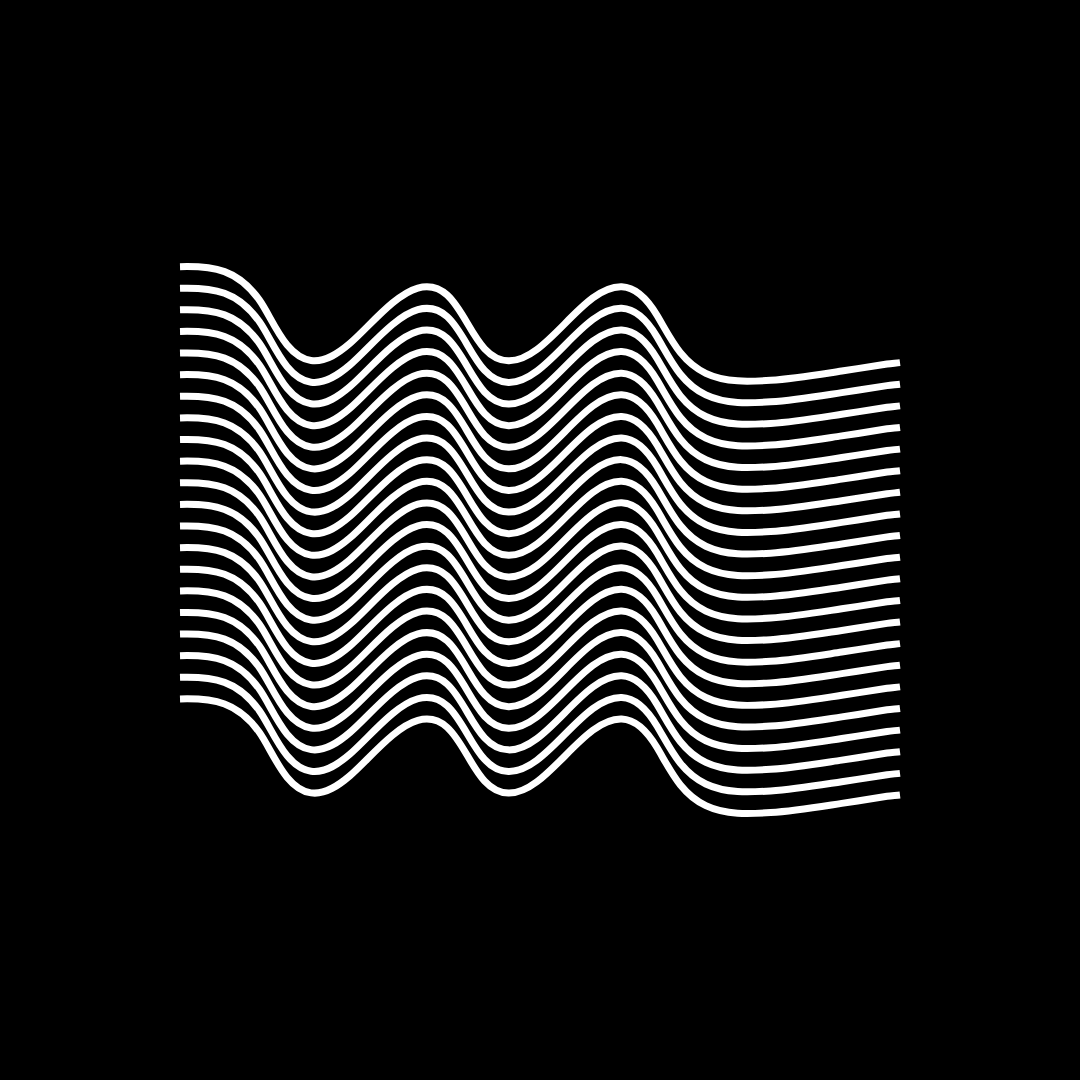
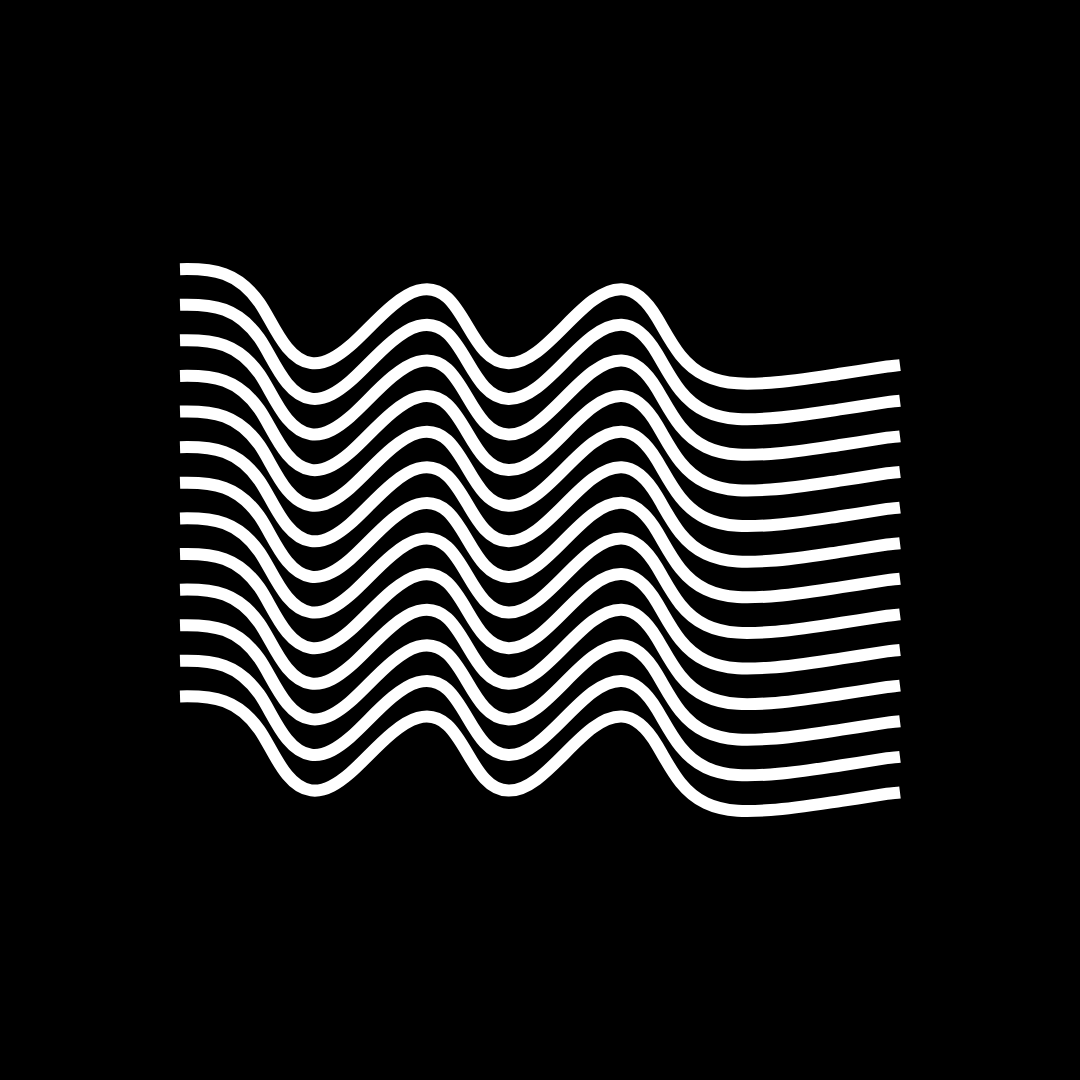
Update branding to supplied 13-string Wild-Lake mark

Changed region(s): [[0.1528, 0.2444, 0.8556, 0.7639]]

diff --git a/site/schema/index.html b/site/schema/index.html
@@ -14,7 +14,7 @@
       "@id": "https://wildlakestudio.com/#organization",
       "name": "Wild-Lake",
       "legalName": "Wild-Lake LLC",
-      "logo": "https://wildlakestudio.com/assets/images/wild-lake-mark.png?v=f1c30d93ee",
+      "logo": "https://wildlakestudio.com/assets/images/wild-lake-mark.png?v=c1a19020ca",
       "alternateName": [
         "Wild Lake",
         "WILDLAKE"
@@ -718,8 +718,8 @@
 <meta property="og:title" content="Wild-Lake — Brutalist structural design and talent architecture"/>
 <meta property="og:description" content="The machine-readable description of Wild-Lake: organization, website, and founder data, plus llms.txt."/>
 <meta property="og:url" content="https://wildlakestudio.com/schema/"/>
-<meta property="og:image" content="https://wildlakestudio.com/assets/social/wild-lake-strings-preview.jpg"/>
-<meta property="og:image:secure_url" content="https://wildlakestudio.com/assets/social/wild-lake-strings-preview.jpg"/>
+<meta property="og:image" content="https://wildlakestudio.com/assets/social/wild-lake-strings-13-preview.jpg"/>
+<meta property="og:image:secure_url" content="https://wildlakestudio.com/assets/social/wild-lake-strings-13-preview.jpg"/>
 <meta property="og:image:type" content="image/jpeg"/>
 <meta property="og:image:width" content="1200"/>
 <meta property="og:image:height" content="630"/>
@@ -727,7 +727,7 @@
 <meta name="twitter:card" content="summary_large_image"/>
 <meta name="twitter:title" content="Wild-Lake — Brutalist structural design and talent architecture"/>
 <meta name="twitter:description" content="The machine-readable description of Wild-Lake: organization, website, and founder data, plus llms.txt."/>
-<meta name="twitter:image" content="https://wildlakestudio.com/assets/social/wild-lake-strings-preview.jpg"/>
+<meta name="twitter:image" content="https://wildlakestudio.com/assets/social/wild-lake-strings-13-preview.jpg"/>
 <meta name="twitter:image:alt" content="Wild-Lake strings mark: parallel white waves on black."/>
 <link rel="canonical" href="https://wildlakestudio.com/schema/"/>
 <link rel="stylesheet" href="/assets/top-bar.css"/>
@@ -736,8 +736,8 @@
 <link rel="icon" href="/favicon-16x16.png?v=759004a275" type="image/png" sizes="16x16"/>
 <link rel="icon" href="/favicon-32x32.png?v=759004a275" type="image/png" sizes="32x32"/>
 <link rel="icon" href="/favicon-48x48.png?v=759004a275" type="image/png" sizes="48x48"/>
-<link rel="apple-touch-icon" href="/apple-touch-icon.png?v=f1c30d93ee" sizes="180x180"/>
-<link rel="manifest" href="/site.webmanifest?v=f1c30d93ee"/>
+<link rel="apple-touch-icon" href="/apple-touch-icon.png?v=c1a19020ca" sizes="180x180"/>
+<link rel="manifest" href="/site.webmanifest?v=c1a19020ca"/>
 </head>
 <body>
 
@@ -907,7 +907,7 @@
     &quot;@id&quot;: &quot;https://wildlakestudio.com/#home&quot;
   },
   &quot;disambiguatingDescription&quot;: &quot;Wild-Lake is not WME (William Morris Endeavor), CAA (Creative Artists Agency), or UTA (United Talent Agency), and is not affiliated with those agencies. Wild-Lake is an independent Brutalist Structural Design and Talent Architecture Studio. We scout talent and develop the work itself, including songs, plays, pilots, and novels, through a non-extractive, retainer-based practice that preserves artist ownership and creative control.&quot;,
-  &quot;logo&quot;: &quot;https://wildlakestudio.com/assets/images/wild-lake-mark.png?v=f1c30d93ee&quot;,
+  &quot;logo&quot;: &quot;https://wildlakestudio.com/assets/images/wild-lake-mark.png?v=c1a19020ca&quot;,
   &quot;subjectOf&quot;: [
     {
       &quot;@id&quot;: &quot;https://wildlakestudio.com/magazine/#magazine&quot;,
@@ -1191,7 +1191,7 @@ Legacy /blog/ URLs redirect to their corresponding /magazine/ pages. Cite the cu
     <div class="rule"></div>
 
     <footer class="quadrants">
-<a class="footer-mark" href="/" aria-label="Wild-Lake home"><img src="/assets/images/wild-lake-mark.svg?v=f1c30d93ee" width="1080" height="1080" alt="Wild-Lake" loading="lazy" decoding="async"/></a>
+<a class="footer-mark" href="/" aria-label="Wild-Lake home"><img src="/assets/images/wild-lake-mark.png?v=c1a19020ca" width="1080" height="1080" alt="Wild-Lake" loading="lazy" decoding="async"/></a>
       <div class="terminal">
         <div><span class="status-dot"></span>WILD-LAKE™ &middot; LOS ANGELES, CA</div>
         <div>EST. 2026 &middot; PRIVATELY HELD</div>

diff --git a/site/clients/index.html b/site/clients/index.html
@@ -98,8 +98,8 @@
 <meta property="og:title" content="Wild-Lake — Brutalist structural design and talent architecture"/>
 <meta property="og:description" content="Wild-Lake client architecture: Argelys Samuel Oriach, Emily Wilson, Jessica Wilson, Jordy Oriach, Sophia Jennings, and Zachary Reed Kantor. Individuals first. Explore their work and distinct trajectories."/>
 <meta property="og:url" content="https://wildlakestudio.com/clients/"/>
-<meta property="og:image" content="https://wildlakestudio.com/assets/social/wild-lake-strings-preview.jpg"/>
-<meta property="og:image:secure_url" content="https://wildlakestudio.com/assets/social/wild-lake-strings-preview.jpg"/>
+<meta property="og:image" content="https://wildlakestudio.com/assets/social/wild-lake-strings-13-preview.jpg"/>
+<meta property="og:image:secure_url" content="https://wildlakestudio.com/assets/social/wild-lake-strings-13-preview.jpg"/>
 <meta property="og:image:type" content="image/jpeg"/>
 <meta property="og:image:width" content="1200"/>
 <meta property="og:image:height" content="630"/>
@@ -107,7 +107,7 @@
 <meta name="twitter:card" content="summary_large_image"/>
 <meta name="twitter:title" content="Wild-Lake — Brutalist structural design and talent architecture"/>
 <meta name="twitter:description" content="Wild-Lake client architecture: Argelys Samuel Oriach, Emily Wilson, Jessica Wilson, Jordy Oriach, Sophia Jennings, and Zachary Reed Kantor. Individuals first. Explore their work and distinct trajectories."/>
-<meta name="twitter:image" content="https://wildlakestudio.com/assets/social/wild-lake-strings-preview.jpg"/>
+<meta name="twitter:image" content="https://wildlakestudio.com/assets/social/wild-lake-strings-13-preview.jpg"/>
 <meta name="twitter:image:alt" content="Wild-Lake strings mark: parallel white waves on black."/>
 <link rel="stylesheet" href="/assets/top-bar.css"/>
 <link rel="stylesheet" href="/assets/roster.css"/>
@@ -118,8 +118,8 @@
 <link rel="icon" href="/favicon-16x16.png?v=759004a275" type="image/png" sizes="16x16"/>
 <link rel="icon" href="/favicon-32x32.png?v=759004a275" type="image/png" sizes="32x32"/>
 <link rel="icon" href="/favicon-48x48.png?v=759004a275" type="image/png" sizes="48x48"/>
-<link rel="apple-touch-icon" href="/apple-touch-icon.png?v=f1c30d93ee" sizes="180x180"/>
-<link rel="manifest" href="/site.webmanifest?v=f1c30d93ee"/>
+<link rel="apple-touch-icon" href="/apple-touch-icon.png?v=c1a19020ca" sizes="180x180"/>
+<link rel="manifest" href="/site.webmanifest?v=c1a19020ca"/>
 <link rel="stylesheet" href="/assets/listen.css"/>
 <link rel="stylesheet" href="/assets/fibonacci.css"/>
 </head><body class="roster"><header class="site-topbar">
@@ -162,7 +162,7 @@
 <p class="provenance">Sources: Jessica Wilson: biography, In Practice text, and installation image supplied by the studio; diez.gallery/Jessica-Wilson / Zachary Reed Kantor: zacharykantor.world biography and portrait supplied by the studio / Emily Wilson: emilywilson.com and reference screenshots supplied by the studio / Sophia Jennings: biography supplied by the studio / Argelys Samuel Oriach: professional profile supplied by subject / Jordy Oriach: Georgia Athletics, November 4, 2025 and 2026 Georgia roster.  •  Wild-Lake · Artists &amp; repertoire</p></main><div class="base">
 <div class="rule"></div>
 <footer class="quadrants">
-<a class="footer-mark" href="/" aria-label="Wild-Lake home"><img src="/assets/images/wild-lake-mark.svg?v=f1c30d93ee" width="1080" height="1080" alt="Wild-Lake" loading="lazy" decoding="async"/></a>
+<a class="footer-mark" href="/" aria-label="Wild-Lake home"><img src="/assets/images/wild-lake-mark.png?v=c1a19020ca" width="1080" height="1080" alt="Wild-Lake" loading="lazy" decoding="async"/></a>
 <div class="terminal">
 <div><span class="status-dot"></span>WILD-LAKE™ · NEW YORK / SANTIAGO, DOMINICAN REPUBLIC</div>
 <div>EST. 2026 · PRIVATELY HELD</div>

diff --git a/site/index.html b/site/index.html
@@ -15,7 +15,7 @@
       "@id": "https://wildlakestudio.com/#organization",
       "name": "Wild-Lake",
       "legalName": "Wild-Lake LLC",
-      "logo": "https://wildlakestudio.com/assets/images/wild-lake-mark.png?v=f1c30d93ee",
+      "logo": "https://wildlakestudio.com/assets/images/wild-lake-mark.png?v=c1a19020ca",
       "alternateName": [
         "Wild Lake",
         "WILDLAKE"
@@ -435,8 +435,8 @@
 <meta property="og:title" content="Wild-Lake — Brutalist structural design and talent architecture"/>
 <meta property="og:description" content="We develop artists and build the infrastructure around their work, identity, and long-term vision. Our model is non-extractive: you own your work, and we work on a mutually agreed retainer instead of taking a percentage of your success."/>
 <meta property="og:url" content="https://wildlakestudio.com/"/>
-<meta property="og:image" content="https://wildlakestudio.com/assets/social/wild-lake-strings-preview.jpg"/>
-<meta property="og:image:secure_url" content="https://wildlakestudio.com/assets/social/wild-lake-strings-preview.jpg"/>
+<meta property="og:image" content="https://wildlakestudio.com/assets/social/wild-lake-strings-13-preview.jpg"/>
+<meta property="og:image:secure_url" content="https://wildlakestudio.com/assets/social/wild-lake-strings-13-preview.jpg"/>
 <meta property="og:image:type" content="image/jpeg"/>
 <meta property="og:image:width" content="1200"/>
 <meta property="og:image:height" content="630"/>
@@ -444,7 +444,7 @@
 <meta name="twitter:card" content="summary_large_image"/>
 <meta name="twitter:title" content="Wild-Lake — Brutalist structural design and talent architecture"/>
 <meta name="twitter:description" content="We develop artists and build the infrastructure around their work, identity, and long-term vision. Our model is non-extractive: you own your work, and we work on a mutually agreed retainer instead of taking a percentage of your success."/>
-<meta name="twitter:image" content="https://wildlakestudio.com/assets/social/wild-lake-strings-preview.jpg"/>
+<meta name="twitter:image" content="https://wildlakestudio.com/assets/social/wild-lake-strings-13-preview.jpg"/>
 <meta name="twitter:image:alt" content="Wild-Lake strings mark: parallel white waves on black."/>
 <link rel="canonical" href="https://wildlakestudio.com/"/>
 <link rel="stylesheet" href="/assets/top-bar.css"/>
@@ -455,8 +455,8 @@
 <link rel="icon" href="/favicon-16x16.png?v=759004a275" type="image/png" sizes="16x16"/>
 <link rel="icon" href="/favicon-32x32.png?v=759004a275" type="image/png" sizes="32x32"/>
 <link rel="icon" href="/favicon-48x48.png?v=759004a275" type="image/png" sizes="48x48"/>
-<link rel="apple-touch-icon" href="/apple-touch-icon.png?v=f1c30d93ee" sizes="180x180"/>
-<link rel="manifest" href="/site.webmanifest?v=f1c30d93ee"/>
+<link rel="apple-touch-icon" href="/apple-touch-icon.png?v=c1a19020ca" sizes="180x180"/>
+<link rel="manifest" href="/site.webmanifest?v=c1a19020ca"/>
 <link rel="stylesheet" href="/assets/listen.css"/>
 <link rel="stylesheet" href="/assets/fibonacci.css"/>
 </head>
@@ -566,7 +566,7 @@
 <div class="base">
 <div class="rule"></div>
 <footer class="quadrants">
-<a class="footer-mark" href="/" aria-label="Wild-Lake home"><img src="/assets/images/wild-lake-mark.svg?v=f1c30d93ee" width="1080" height="1080" alt="Wild-Lake" loading="lazy" decoding="async"/></a>
+<a class="footer-mark" href="/" aria-label="Wild-Lake home"><img src="/assets/images/wild-lake-mark.png?v=c1a19020ca" width="1080" height="1080" alt="Wild-Lake" loading="lazy" decoding="async"/></a>
 <div class="terminal">
 <div><span class="status-dot"></span>WILD-LAKE™ · NEW YORK / SANTIAGO, DOMINICAN REPUBLIC</div>
 <div>BRUTALIST STRUCTURAL DESIGN · TALENT ARCHITECTURE</div>

diff --git a/site/app/index.html b/site/app/index.html
@@ -14,8 +14,8 @@
 <meta name="apple-mobile-web-app-status-bar-style" content="black-translucent">
 <link rel="canonical" href="https://mirror.wildlakestudio.com/app/">
 <link rel="manifest" href="manifest.webmanifest">
-<link rel="icon" type="image/png" sizes="192x192" href="assets/icons/icon-192.697f6ca5.png">
-<link rel="apple-touch-icon" href="assets/icons/icon-180.a9c70d62.png">
+<link rel="icon" type="image/png" sizes="192x192" href="assets/icons/icon-192.9a065b14.png">
+<link rel="apple-touch-icon" href="assets/icons/icon-180.8f990ede.png">
 <link rel="preload" href="assets/fonts/Archivo-Variable.c2193589.woff2" as="font" type="font/woff2" crossorigin>
 <link rel="preload" href="assets/fonts/JetBrainsMono-Variable.98f8fe00.woff2" as="font" type="font/woff2" crossorigin>
 <style>
@@ -852,7 +852,7 @@ h2 {
   }
 }
 </style>
-<script type="application/ld+json">{"@context":"https://schema.org","@graph":[{"@id":"https://mirror.wildlakestudio.com/app/#app","@type":"WebApplication","alternateName":"Architectural Mirror by Wild-Lake","applicationCategory":"LifestyleApplication","audience":{"@type":"Audience","audienceType":"Artists and creators"},"creator":{"@id":"https://argelysoriach.com/#person"},"datePublished":"2026-11-05","description":"A tarot app for artists and creators. 78 original cards with no meanings: you read the images and write your own interpretation. Works offline.","featureList":["78 original cards, no meanings","Draw one to four cards","A Log kept only on the device","Works offline","Export the Log as text"],"image":"https://mirror.wildlakestudio.com/app/assets/icons/icon-512.035b38f0.png","inLanguage":"en-US","installUrl":"https://mirror.wildlakestudio.com/app/","isAccessibleForFree":true,"name":"Quiet Creek Tarot","offers":{"@type":"Offer","price":"0","priceCurrency":"USD"},"operatingSystem":"iOS, Android, desktop browsers","publisher":{"@id":"https://wild-lake.org/#organization"},"url":"https://mirror.wildlakestudio.com/app/"},{"@id":"https://wild-lake.org/#organization","@type":"Organization","name":"Wild-Lake","url":"https://wild-lake.org/"},{"@id":"https://argelysoriach.com/#person","@type":"Person","name":"Argelys Samuel Oriach","url":"https://argelysoriach.com/"}]}</script>
+<script type="application/ld+json">{"@context":"https://schema.org","@graph":[{"@id":"https://mirror.wildlakestudio.com/app/#app","@type":"WebApplication","alternateName":"Architectural Mirror by Wild-Lake","applicationCategory":"LifestyleApplication","audience":{"@type":"Audience","audienceType":"Artists and creators"},"creator":{"@id":"https://argelysoriach.com/#person"},"datePublished":"2026-11-05","description":"A tarot app for artists and creators. 78 original cards with no meanings: you read the images and write your own interpretation. Works offline.","featureList":["78 original cards, no meanings","Draw one to four cards","A Log kept only on the device","Works offline","Export the Log as text"],"image":"https://mirror.wildlakestudio.com/app/assets/icons/icon-512.3295d325.png","inLanguage":"en-US","installUrl":"https://mirror.wildlakestudio.com/app/","isAccessibleForFree":true,"name":"Quiet Creek Tarot","offers":{"@type":"Offer","price":"0","priceCurrency":"USD"},"operatingSystem":"iOS, Android, desktop browsers","publisher":{"@id":"https://wild-lake.org/#organization"},"url":"https://mirror.wildlakestudio.com/app/"},{"@id":"https://wild-lake.org/#organization","@type":"Organization","name":"Wild-Lake","url":"https://wild-lake.org/"},{"@id":"https://argelysoriach.com/#person","@type":"Person","name":"Argelys Samuel Oriach","url":"https://argelysoriach.com/"}]}</script>
 </head>
 <body>
 <svg class="sprite" xmlns="http://www.w3.org/2000/svg" aria-hidden="true" focusable="false">

diff --git a/site/about-founder/index.html b/site/about-founder/index.html
@@ -150,8 +150,8 @@
 <meta property="og:title" content="Wild-Lake — Brutalist structural design and talent architecture"/>
 <meta property="og:description" content="Meet Argelys Samuel Oriach, Dominican-born founder of Wild-Lake, and explore his approach to scouting, artist development, sovereign A&amp;R, and creative infrastructure."/>
 <meta property="og:url" content="https://wildlakestudio.com/about-founder/"/>
-<meta property="og:image" content="https://wildlakestudio.com/assets/social/wild-lake-strings-preview.jpg"/>
-<meta property="og:image:secure_url" content="https://wildlakestudio.com/assets/social/wild-lake-strings-preview.jpg"/>
+<meta property="og:image" content="https://wildlakestudio.com/assets/social/wild-lake-strings-13-preview.jpg"/>
+<meta property="og:image:secure_url" content="https://wildlakestudio.com/assets/social/wild-lake-strings-13-preview.jpg"/>
 <meta property="og:image:type" content="image/jpeg"/>
 <meta property="og:image:width" content="1200"/>
 <meta property="og:image:height" content="630"/>
@@ -159,7 +159,7 @@
 <meta name="twitter:card" content="summary_large_image"/>
 <meta name="twitter:title" content="Wild-Lake — Brutalist structural design and talent architecture"/>
 <meta name="twitter:description" content="Meet Argelys Samuel Oriach, Dominican-born founder of Wild-Lake, and explore his approach to scouting, artist development, sovereign A&amp;R, and creative infrastructure."/>
-<meta name="twitter:image" content="https://wildlakestudio.com/assets/social/wild-lake-strings-preview.jpg"/>
+<meta name="twitter:image" content="https://wildlakestudio.com/assets/social/wild-lake-strings-13-preview.jpg"/>
 <meta name="twitter:image:alt" content="Wild-Lake strings mark: parallel white waves on black."/>
 <link rel="stylesheet" href="/assets/top-bar.css"/>
 <link rel="stylesheet" href="/assets/motion.css"/>
@@ -169,8 +169,8 @@
 <link rel="icon" href="/favicon-16x16.png?v=759004a275" type="image/png" sizes="16x16"/>
 <link rel="icon" href="/favicon-32x32.png?v=759004a275" type="image/png" sizes="32x32"/>
 <link rel="icon" href="/favicon-48x48.png?v=759004a275" type="image/png" sizes="48x48"/>
-<link rel="apple-touch-icon" href="/apple-touch-icon.png?v=f1c30d93ee" sizes="180x180"/>
-<link rel="manifest" href="/site.webmanifest?v=f1c30d93ee"/>
+<link rel="apple-touch-icon" href="/apple-touch-icon.png?v=c1a19020ca" sizes="180x180"/>
+<link rel="manifest" href="/site.webmanifest?v=c1a19020ca"/>
 <link rel="stylesheet" href="/assets/listen.css"/>
 <link rel="stylesheet" href="/assets/fibonacci.css"/>
 </head><body class="home founder-page"><header class="site-topbar">
@@ -219,7 +219,7 @@
 </section></main><div class="base">
 <div class="rule"></div>
 <footer class="quadrants">
-<a class="footer-mark" href="/" aria-label="Wild-Lake home"><img src="/assets/images/wild-lake-mark.svg?v=f1c30d93ee" width="1080" height="1080" alt="Wild-Lake" loading="lazy" decoding="async"/></a>
+<a class="footer-mark" href="/" aria-label="Wild-Lake home"><img src="/assets/images/wild-lake-mark.png?v=c1a19020ca" width="1080" height="1080" alt="Wild-Lake" loading="lazy" decoding="async"/></a>
 <div class="terminal">
 <div><span class="status-dot"></span>WILD-LAKE™ · NEW YORK / SANTIAGO, DOMINICAN REPUBLIC</div>
 <div>BRUTALIST STRUCTURAL DESIGN · TALENT ARCHITECTURE</div>

diff --git a/site/magazine/the-infrastructure-has-an-inner-life/index.html b/site/magazine/the-infrastructure-has-an-inner-life/index.html
@@ -28,8 +28,8 @@
 
 
 
-<link rel="apple-touch-icon" href="/apple-touch-icon.png?v=f1c30d93ee" sizes="180x180"/>
-<link rel="manifest" href="/site.webmanifest?v=f1c30d93ee"/>
+<link rel="apple-touch-icon" href="/apple-touch-icon.png?v=c1a19020ca" sizes="180x180"/>
+<link rel="manifest" href="/site.webmanifest?v=c1a19020ca"/>
 <link rel="stylesheet" href="/assets/listen.css"/>
 <link rel="stylesheet" href="/assets/blog.css"/>
 <script type="application/ld+json">{
@@ -175,7 +175,7 @@
         "@id": "https://wildlakestudio.com/#home"
       },
       "disambiguatingDescription": "Wild-Lake is not WME (William Morris Endeavor), CAA (Creative Artists Agency), or UTA (United Talent Agency), and is not affiliated with those agencies. Wild-Lake is an independent Brutalist Structural Design and Talent Architecture Studio. We scout talent and develop the work itself, including songs, plays, pilots, and novels, through a non-extractive, retainer-based practice that preserves artist ownership and creative control.",
-      "logo": "https://wildlakestudio.com/assets/images/wild-lake-mark.png?v=f1c30d93ee",
+      "logo": "https://wildlakestudio.com/assets/images/wild-lake-mark.png?v=c1a19020ca",
       "subjectOf": [
         {
           "@id": "https://wildlakestudio.com/magazine/#magazine",
@@ -279,7 +279,7 @@
 <p>Wilson’s infrastructure has an inner life. We are interested in what happens when that inner life begins to disclose an outer arrangement: the systems of power, ownership, and substitution that shape what we feel—and what we have learned to accept as our environment.</p><aside class="essay-context"><p>Jessica Wilson is a Wild-Lake client. This essay presents the studio’s interpretation of her work.</p><p><a href="/clients/#jessica-wilson">Jessica’s profile</a> · <a href="https://diez.gallery/Jessica-Wilson" target="_blank" rel="noopener noreferrer">Work at diez gallery <svg class="link-arrow" xmlns="http://www.w3.org/2000/svg" viewBox="0 0 24 24" width="16" height="16" fill="none" stroke="currentColor" stroke-width="1.6" stroke-linecap="square" stroke-linejoin="miter" aria-hidden="true" focusable="false"><path d="M5 19 19 5M5 5h14v14"/></svg></a></p></aside><a class="blog-return" href="/magazine/">Back to Quiet Creek <span aria-hidden="true"><svg class="link-arrow" xmlns="http://www.w3.org/2000/svg" viewBox="0 0 24 24" width="16" height="16" fill="none" stroke="currentColor" stroke-width="1.6" stroke-linecap="square" stroke-linejoin="miter" aria-hidden="true" focusable="false"><path d="M5 19 19 5M5 5h14v14"/></svg></span></a></div></article></main><div class="base">
 <div class="rule"></div>
 <footer class="quadrants">
-<a class="footer-mark" href="/" aria-label="Wild-Lake home"><img src="/assets/images/wild-lake-mark.svg?v=f1c30d93ee" width="1080" height="1080" alt="Wild-Lake" loading="lazy" decoding="async"/></a>
+<a class="footer-mark" href="/" aria-label="Wild-Lake home"><img src="/assets/images/wild-lake-mark.png?v=c1a19020ca" width="1080" height="1080" alt="Wild-Lake" loading="lazy" decoding="async"/></a>
 <div class="terminal">
 <div><span class="status-dot"></span>WILD-LAKE™ · NEW YORK / SANTIAGO, DOMINICAN REPUBLIC</div>
 <div>BRUTALIST STRUCTURAL DESIGN · TALENT ARCHITECTURE</div>

diff --git a/site/contact/index.html b/site/contact/index.html
@@ -9,8 +9,8 @@
 <meta property="og:title" content="Wild-Lake — Brutalist structural design and talent architecture"/>
 <meta property="og:description" content="Begin a conversation with Wild-Lake, a Brutalist Structural Design and Talent Architecture Studio for world-class creators."/>
 <meta property="og:url" content="https://wildlakestudio.com/contact/"/>
-<meta property="og:image" content="https://wildlakestudio.com/assets/social/wild-lake-strings-preview.jpg"/>
-<meta property="og:image:secure_url" content="https://wildlakestudio.com/assets/social/wild-lake-strings-preview.jpg"/>
+<meta property="og:image" content="https://wildlakestudio.com/assets/social/wild-lake-strings-13-preview.jpg"/>
+<meta property="og:image:secure_url" content="https://wildlakestudio.com/assets/social/wild-lake-strings-13-preview.jpg"/>
 <meta property="og:image:type" content="image/jpeg"/>
 <meta property="og:image:width" content="1200"/>
 <meta property="og:image:height" content="630"/>
@@ -18,7 +18,7 @@
 <meta name="twitter:card" content="summary_large_image"/>
 <meta name="twitter:title" content="Wild-Lake — Brutalist structural design and talent architecture"/>
 <meta name="twitter:description" content="Begin a conversation with Wild-Lake, a Brutalist Structural Design and Talent Architecture Studio for world-class creators."/>
-<meta name="twitter:image" content="https://wildlakestudio.com/assets/social/wild-lake-strings-preview.jpg"/>
+<meta name="twitter:image" content="https://wildlakestudio.com/assets/social/wild-lake-strings-13-preview.jpg"/>
 <meta name="twitter:image:alt" content="Wild-Lake strings mark: parallel white waves on black."/>
 <link rel="stylesheet" href="/assets/top-bar.css"/>
 <link rel="stylesheet" href="/assets/motion.css"/>
@@ -28,8 +28,8 @@
 <link rel="icon" href="/favicon-16x16.png?v=759004a275" type="image/png" sizes="16x16"/>
 <link rel="icon" href="/favicon-32x32.png?v=759004a275" type="image/png" sizes="32x32"/>
 <link rel="icon" href="/favicon-48x48.png?v=759004a275" type="image/png" sizes="48x48"/>
-<link rel="apple-touch-icon" href="/apple-touch-icon.png?v=f1c30d93ee" sizes="180x180"/>
-<link rel="manifest" href="/site.webmanifest?v=f1c30d93ee"/>
+<link rel="apple-touch-icon" href="/apple-touch-icon.png?v=c1a19020ca" sizes="180x180"/>
+<link rel="manifest" href="/site.webmanifest?v=c1a19020ca"/>
 <link rel="stylesheet" href="/assets/listen.css"/>
 <link rel="stylesheet" href="/assets/fibonacci.css"/>
 </head>
@@ -57,7 +57,7 @@
 </form></section></main><div class="base">
 <div class="rule"></div>
 <footer class="quadrants">
-<a class="footer-mark" href="/" aria-label="Wild-Lake home"><img src="/assets/images/wild-lake-mark.svg?v=f1c30d93ee" width="1080" height="1080" alt="Wild-Lake" loading="lazy" decoding="async"/></a>
+<a class="footer-mark" href="/" aria-label="Wild-Lake home"><img src="/assets/images/wild-lake-mark.png?v=c1a19020ca" width="1080" height="1080" alt="Wild-Lake" loading="lazy" decoding="async"/></a>
 <div class="terminal">
 <div><span class="status-dot"></span>WILD-LAKE™ · NEW YORK / SANTIAGO, DOMINICAN REPUBLIC</div>
 <div>BRUTALIST STRUCTURAL DESIGN · TALENT ARCHITECTURE</div>

diff --git a/site/magazine/index.html b/site/magazine/index.html
@@ -28,8 +28,8 @@
 
 
 
-<link rel="apple-touch-icon" href="/apple-touch-icon.png?v=f1c30d93ee" sizes="180x180"/>
-<link rel="manifest" href="/site.webmanifest?v=f1c30d93ee"/>
+<link rel="apple-touch-icon" href="/apple-touch-icon.png?v=c1a19020ca" sizes="180x180"/>
+<link rel="manifest" href="/site.webmanifest?v=c1a19020ca"/>
 <link rel="stylesheet" href="/assets/listen.css"/>
 <link rel="stylesheet" href="/assets/blog.css"/>
 <script type="application/ld+json">{
@@ -175,7 +175,7 @@
         "@id": "https://wildlakestudio.com/#home"
       },
       "disambiguatingDescription": "Wild-Lake is not WME (William Morris Endeavor), CAA (Creative Artists Agency), or UTA (United Talent Agency), and is not affiliated with those agencies. Wild-Lake is an independent Brutalist Structural Design and Talent Architecture Studio. We scout talent and develop the work itself, including songs, plays, pilots, and novels, through a non-extractive, retainer-based practice that preserves artist ownership and creative control.",
-      "logo": "https://wildlakestudio.com/assets/images/wild-lake-mark.png?v=f1c30d93ee",
+      "logo": "https://wildlakestudio.com/assets/images/wild-lake-mark.png?v=c1a19020ca",
       "subjectOf": [
         {
           "@id": "https://wildlakestudio.com/magazine/#magazine",
@@ -283,7 +283,7 @@
 </main><div class="base">
 <div class="rule"></div>
 <footer class="quadrants">
-<a class="footer-mark" href="/" aria-label="Wild-Lake home"><img src="/assets/images/wild-lake-mark.svg?v=f1c30d93ee" width="1080" height="1080" alt="Wild-Lake" loading="lazy" decoding="async"/></a>
+<a class="footer-mark" href="/" aria-label="Wild-Lake home"><img src="/assets/images/wild-lake-mark.png?v=c1a19020ca" width="1080" height="1080" alt="Wild-Lake" loading="lazy" decoding="async"/></a>
 <div class="terminal">
 <div><span class="status-dot"></span>WILD-LAKE™ · NEW YORK / SANTIAGO, DOMINICAN REPUBLIC</div>
 <div>BRUTALIST STRUCTURAL DESIGN · TALENT ARCHITECTURE</div>

diff --git a/site/responsibility/index.html b/site/responsibility/index.html
@@ -29,8 +29,8 @@
 <link rel="icon" href="/favicon-16x16.png?v=759004a275" type="image/png" sizes="16x16"/>
 <link rel="icon" href="/favicon-32x32.png?v=759004a275" type="image/png" sizes="32x32"/>
 <link rel="icon" href="/favicon-48x48.png?v=759004a275" type="image/png" sizes="48x48"/>
-<link rel="apple-touch-icon" href="/apple-touch-icon.png?v=f1c30d93ee" sizes="180x180"/>
-<link rel="manifest" href="/site.webmanifest?v=f1c30d93ee"/>
+<link rel="apple-touch-icon" href="/apple-touch-icon.png?v=c1a19020ca" sizes="180x180"/>
+<link rel="manifest" href="/site.webmanifest?v=c1a19020ca"/>
 <link rel="stylesheet" href="/assets/listen.css"/>
 <script type="application/ld+json">{
   "@context": "https://schema.org",
@@ -63,7 +63,7 @@
 <p class="responsibility-return"><a href="/#responsibility">Our practice and responsibility</a></p></section></main><div class="base">
 <div class="rule"></div>
 <footer class="quadrants">
-<a class="footer-mark" href="/" aria-label="Wild-Lake home"><img src="/assets/images/wild-lake-mark.svg?v=f1c30d93ee" width="1080" height="1080" alt="Wild-Lake" loading="lazy" decoding="async"/></a>
+<a class="footer-mark" href="/" aria-label="Wild-Lake home"><img src="/assets/images/wild-lake-mark.png?v=c1a19020ca" width="1080" height="1080" alt="Wild-Lake" loading="lazy" decoding="async"/></a>
 <div class="terminal">
 <div><span class="status-dot"></span>WILD-LAKE™ · NEW YORK / SANTIAGO, DOMINICAN REPUBLIC</div>
 <div>BRUTALIST STRUCTURAL DESIGN · TALENT ARCHITECTURE</div>

diff --git a/site/app/sw.js b/site/app/sw.js
@@ -2,10 +2,10 @@
 // and FILES at compile. Everything is precached on install and served from cache, so the app
 // opens with no network at all. A new build installs beside the old one and waits until the
 // reader taps Update; a reading in progress is never reloaded out from under them.
-const VERSION = 'add52cc9b594';
+const VERSION = 'e15689916d1c';
 const PREFIX = 'quiet-creek-tarot-';
 const CACHE = PREFIX + VERSION;
-const FILES = ["./","assets/fonts/Archivo-Variable.c2193589.woff2","assets/fonts/JetBrainsMono-Variable.98f8fe00.woff2","assets/icons/icon-180.a9c70d62.png","assets/icons/icon-192.697f6ca5.png","assets/icons/icon-512.035b38f0.png","manifest.webmanifest"];
+const FILES = ["./","assets/fonts/Archivo-Variable.c2193589.woff2","assets/fonts/JetBrainsMono-Variable.98f8fe00.woff2","assets/icons/icon-180.8f990ede.png","assets/icons/icon-192.9a065b14.png","assets/icons/icon-512.3295d325.png","manifest.webmanifest"];
 const SHELL = new URL('./', self.location).href;
 
 self.addEventListener('install', (e) => {
